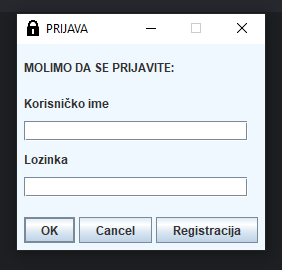
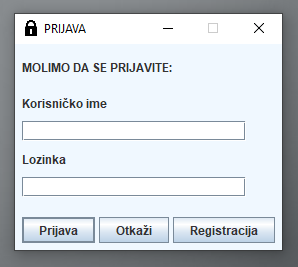
male izmene

diff --git a/src/gui/LoginProzor.java b/src/gui/LoginProzor.java
@@ -26,8 +26,8 @@ public class LoginProzor extends JFrame {
 	private JTextField txtKorisnickoIme = new JTextField(20);
 	private JLabel lbLozinka = new JLabel("Lozinka");
 	private JPasswordField pfLozinka = new JPasswordField(20);
-	private JButton btnOk = new JButton("OK");
-	private JButton btnCancel = new JButton("Cancel");
+	private JButton btnOk = new JButton("Prijava");
+	private JButton btnCancel = new JButton("Otkaži");
 	private JButton btnRegistracija = new JButton("Registracija");
 	
 	private Biblioteka biblioteka;

diff --git a/src/guiDodatneFormeZaIzmenu/ZaposleniForma.java b/src/guiDodatneFormeZaIzmenu/ZaposleniForma.java
@@ -48,8 +48,8 @@ public class ZaposleniForma extends JFrame {
 	private JComboBox<Boolean> boxObrisan = new JComboBox<Boolean>();
 	
 	
-	private JButton btnOK = new JButton("OK");
-	private JButton btnCancel = new JButton("Cancel");
+	private JButton btnOK = new JButton("Registruj se");
+	private JButton btnCancel = new JButton("Otkaži");
 
 	private Zaposleni zaposleni;
 	private Biblioteka biblioteka;
